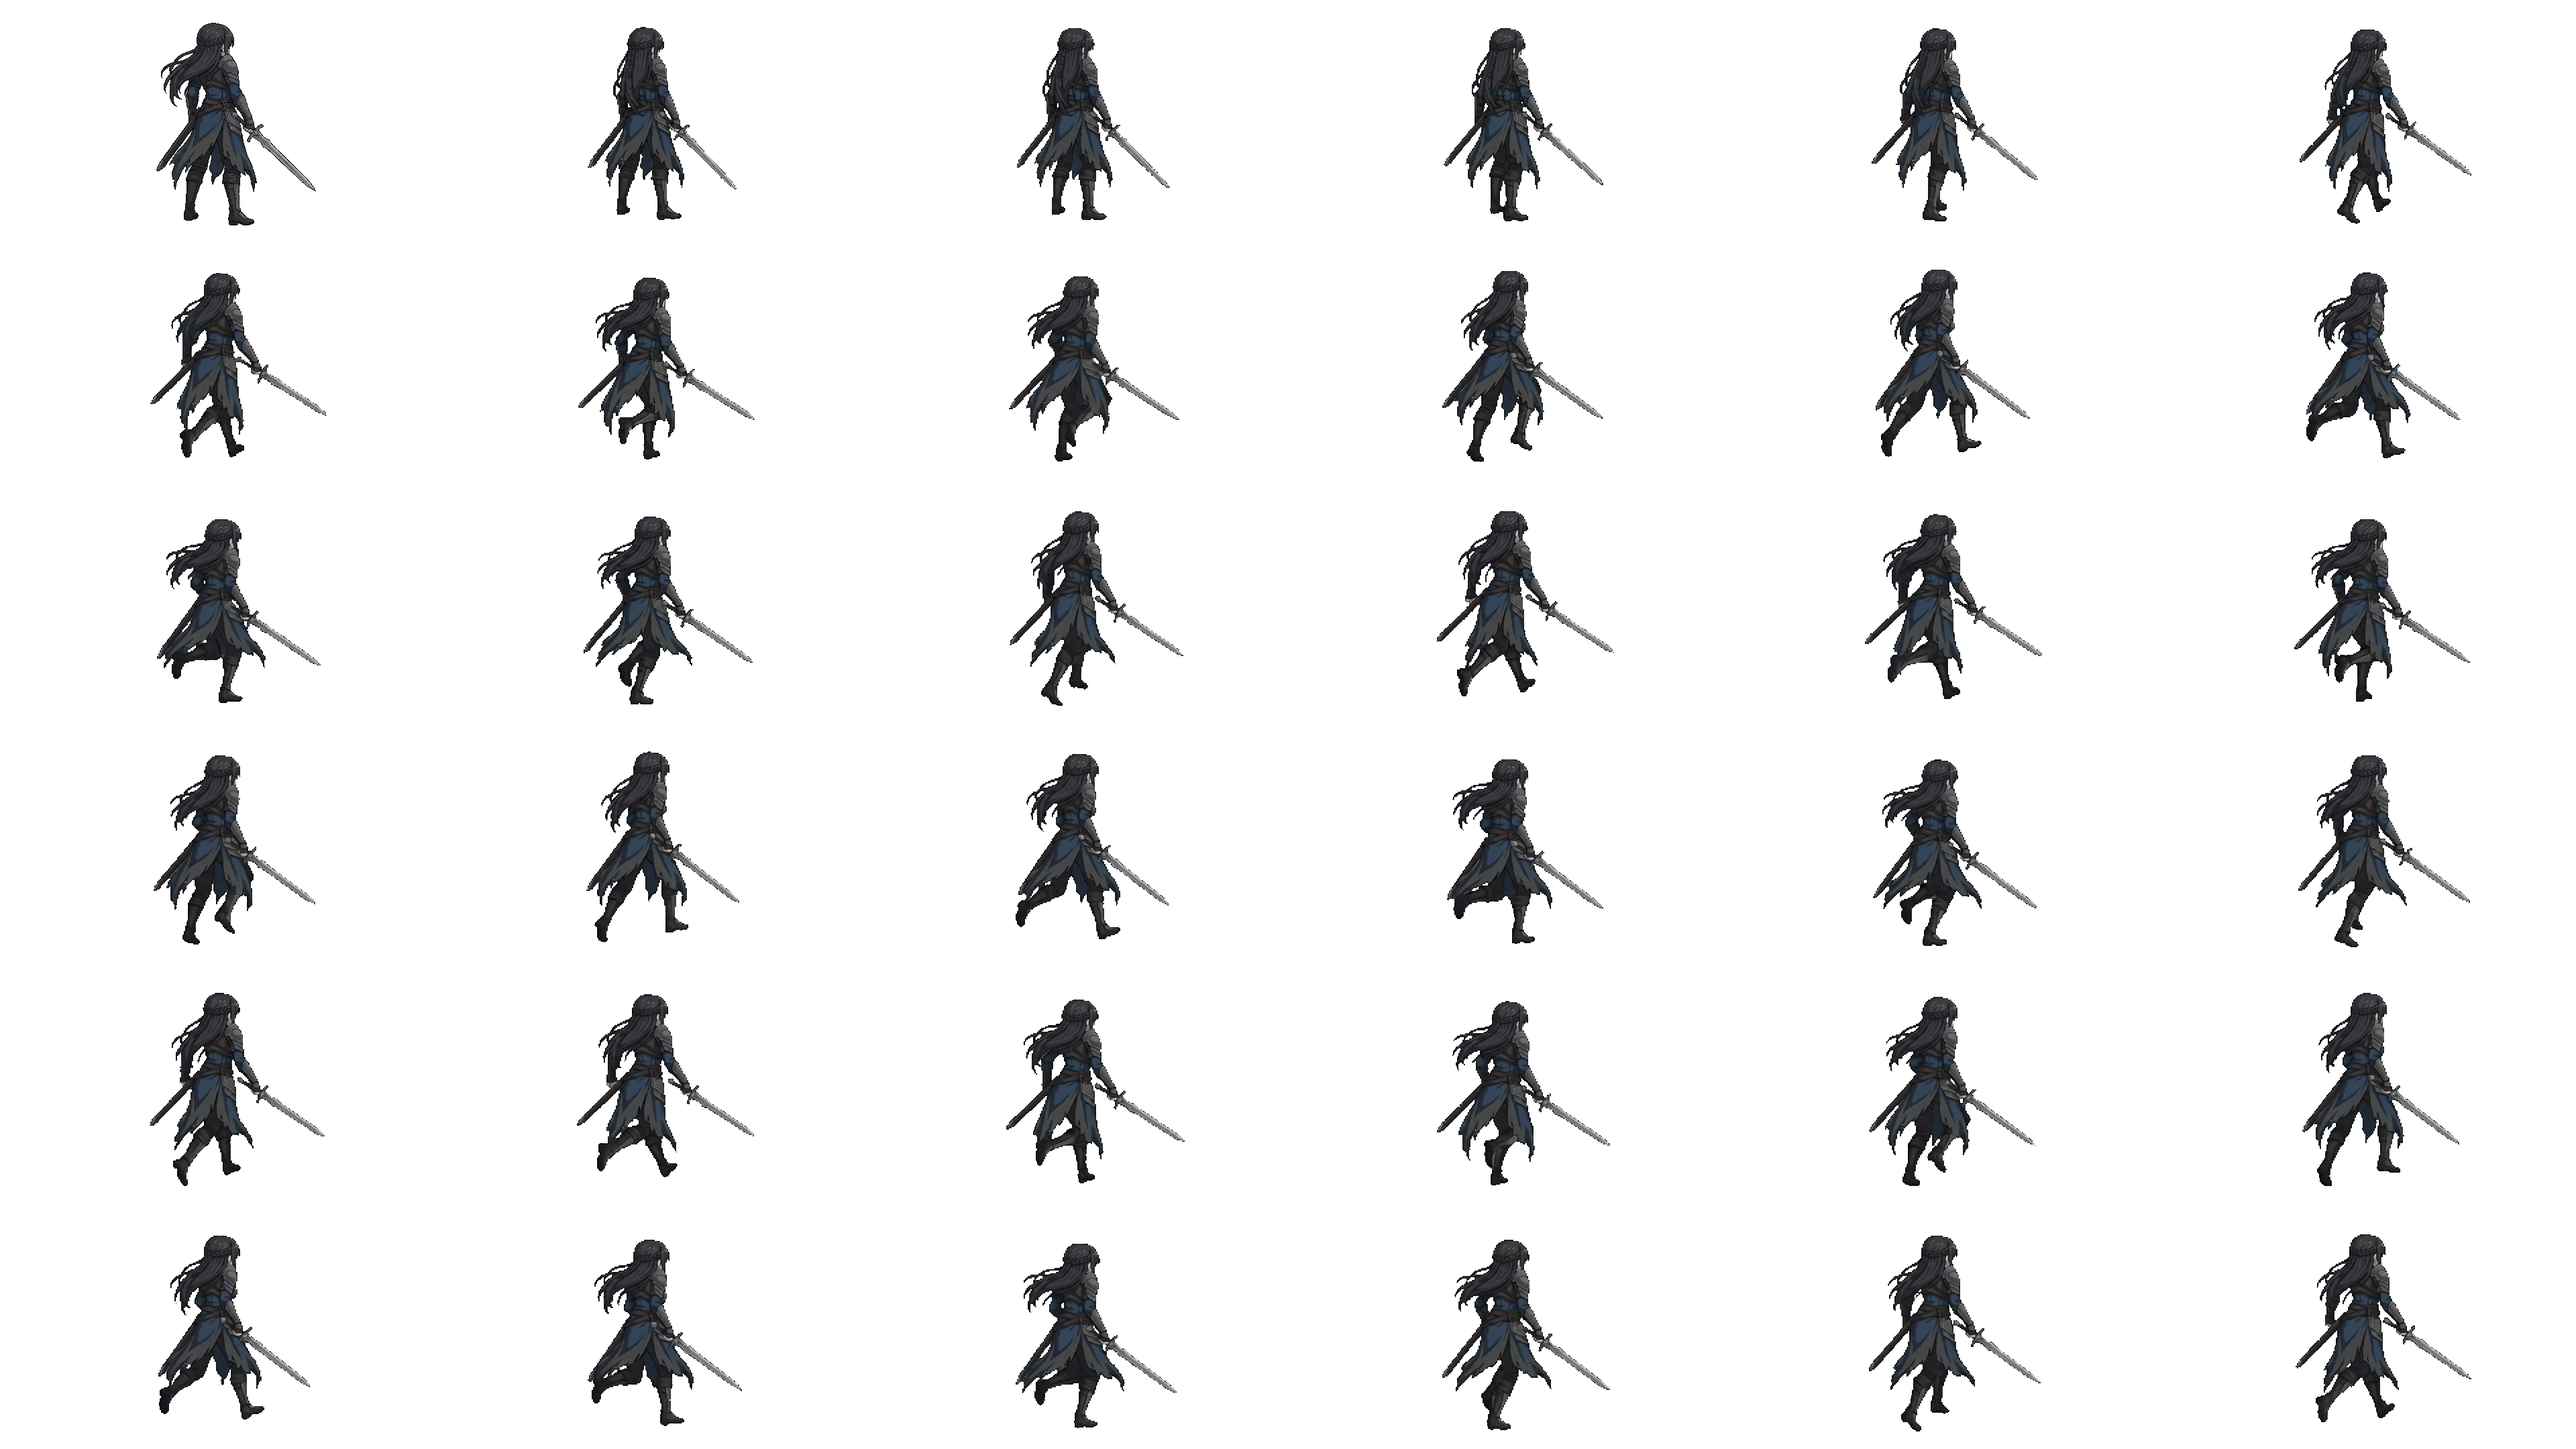
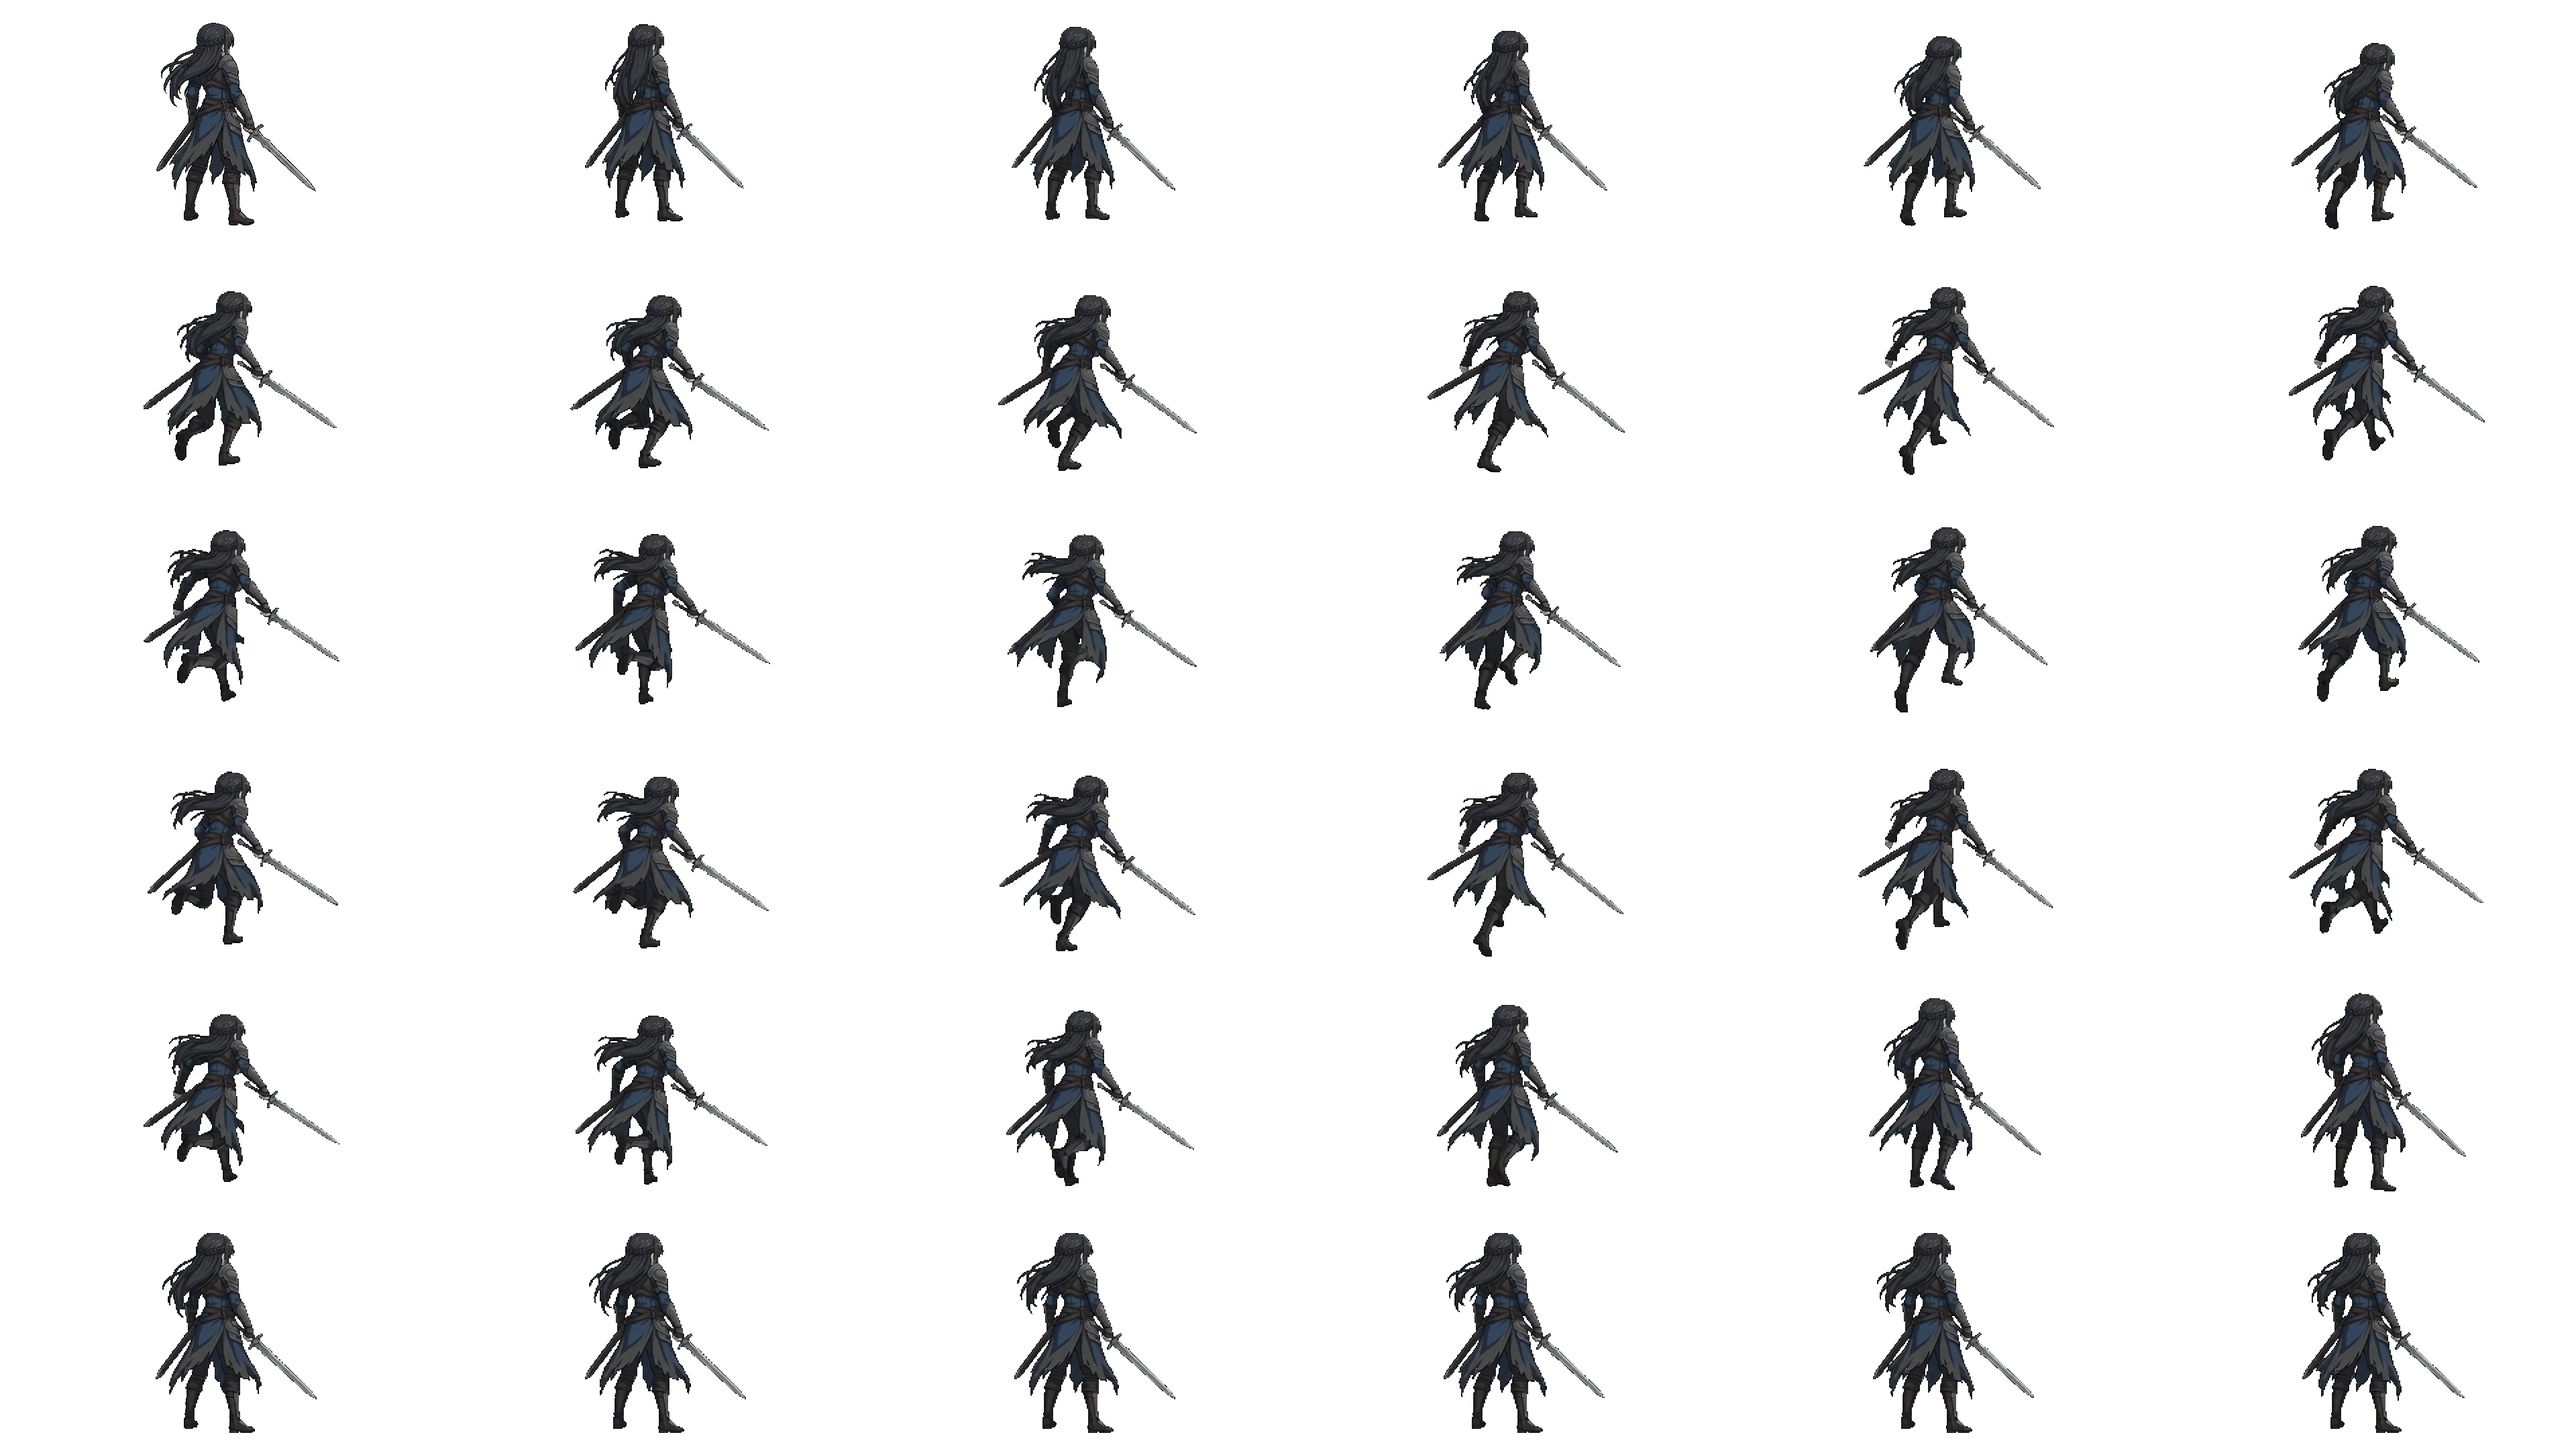
새 run 시트 적용(출발·반복·제동 구간), 공격 후반 동작 느리게

diff --git a/arena_scene.py b/arena_scene.py
@@ -1193,6 +1193,9 @@ class ArenaScene:
         # 실제로 나간 공격 횟수 (그리기 전용). 홀수 번째 공격은 공격 동작을 좌우 반전해
         #   시트 한 장으로 좌우 번갈아 베는 연타처럼 보이게 한다
         self.attack_count = 0
+        self.attack_visual_count = 0  # 지금 그리는 공격 동작이 몇 번째 공격인지
+        self.attack_visual_duration = BASIC_ATTACK_DURATION
+        self.run_skip_intro = False
         self.battle_finished = False
         self.player_lane = "platform_2"
         self.player_logical_x = 310
@@ -1522,19 +1525,50 @@ class ArenaScene:
         view_zoom = self.view_zoom
         camera_x = self.camera_x
 
+    def set_player_animation(self, animation):
+        self.player_animation = animation
+        self.player_anim_time = 0.0
+
     def update_player_animation(self, moved):
-        # 공격 중이면 공격 동작, 실제로 움직였으면 달리기(회피·대시 포함), 아니면 대기.
-        # 좌우 반전은 판정과 같은 facing_direction을 따른다 — 칼이 판정 쪽으로 나간다
+        """그리기 전용 동작 상태: idle / run / brake / attack.
+
+        공격 중이면 attack (공격 시간에 맞춰 늘임, 끝난 뒤 꼬리는 서 있을 때만).
+        실제로 움직였으면 run (회피·대시 포함) — 출발 구간 후 반복.
+        달리다 멈추면 brake (감속 프레임) 후 idle.
+        좌우 반전은 판정과 같은 facing_direction을 따른다 — 칼이 판정 쪽으로 나간다.
+        """
+        moving = abs(moved) > 1e-6
         if self.attack_type is not None:
-            animation = "attack"
-        elif abs(moved) > 1e-6:
-            animation = "run"
-        else:
-            animation = "idle"
-        if animation != self.player_animation:
-            # 동작이 바뀌면 첫 프레임부터 — 달리기 0번은 대기에서 출발하는 자세다
-            self.player_animation = animation
-            self.player_anim_time = 0.0
+            if self.player_animation != "attack" or self.attack_visual_count != self.attack_count:
+                self.attack_visual_count = self.attack_count
+                self.attack_visual_duration = (
+                    BASIC_ATTACK_DURATION
+                    if self.attack_type == "basic"
+                    else HEAVY_ATTACK_DURATION
+                )
+                self.player_animation = "attack"
+            # 공격 중에는 판정 시계(attack_elapsed)에 맞춘다
+            self.player_anim_time = self.attack_elapsed
+            return
+
+        if self.player_animation == "attack":
+            if moving:
+                self.run_skip_intro = False
+                self.set_player_animation("run")
+            elif self.player_attack_frame() is None:
+                self.set_player_animation("idle")
+            return
+
+        if moving:
+            if self.player_animation != "run":
+                # 제동 중에 다시 달리면 출발(일어선 자세) 구간을 건너뛴다
+                self.run_skip_intro = self.player_animation == "brake"
+                self.set_player_animation("run")
+        elif self.player_animation == "run":
+            self.set_player_animation("brake")
+        elif self.player_animation == "brake":
+            if player_sprite.brake_frame(self.player_anim_time) is None:
+                self.set_player_animation("idle")
 
     def update_momentum_fx(self, fixed_delta):
         self.player_anim_time += fixed_delta
@@ -1959,21 +1993,31 @@ class ArenaScene:
         판정 방향(facing_direction)은 그대로다. 짝수 번째 클릭은 기본 동작, 홀수 번째는 반대 동작.
         """
         flipped = self.facing_direction < 0
-        if self.attack_type is not None and self.attack_count % 2 == 1:
+        if self.player_animation == "attack" and self.attack_visual_count % 2 == 1:
             flipped = not flipped
         return flipped
 
     def player_attack_frame(self):
-        """공격 중이면 공격 시트 프레임 (공격 시간에 맞춰 늘임), 아니면 None."""
-        if self.attack_type is None:
-            return None
-        duration = (
-            BASIC_ATTACK_DURATION
-            if self.attack_type == "basic"
-            else HEAVY_ATTACK_DURATION
-        )
+        """공격 동작 프레임 (꼬리 포함). 끝났으면 None."""
         # 판정은 공격 시간의 50%에 들어간다 (update의 attack_duration * 0.5)
-        return player_sprite.attack_frame(self.attack_elapsed / duration, 0.5)
+        return player_sprite.attack_frame(
+            self.player_anim_time, self.attack_visual_duration, 0.5
+        )
+
+    def player_sprite_frame(self):
+        """(시트 이름, 프레임) — 프레임이 None이면 시간 × fps로 돈다 (대기)."""
+        if self.player_animation == "attack":
+            frame = self.player_attack_frame()
+            if frame is not None:
+                return "attack", frame
+            return "idle", None
+        if self.player_animation == "run":
+            return "run", player_sprite.run_frame(self.player_anim_time, self.run_skip_intro)
+        if self.player_animation == "brake":
+            frame = player_sprite.brake_frame(self.player_anim_time)
+            if frame is not None:
+                return "run", frame
+        return "idle", None
 
     def draw_player(self, screen_x, foot_y, scale):
         """대기 스프라이트. 이미지를 못 읽으면 예전 도형 캐릭터로 그린다."""
@@ -1983,15 +2027,16 @@ class ArenaScene:
         # 발밑 그림자는 도형 캐릭터와 같다
         set_draw_color("shadow", 170, 0.7)
         draw_filled_ellipse(screen_x, foot_y + 3 * scale, 24 * scale, 8 * scale)
+        sheet, frame = self.player_sprite_frame()
         player_sprite.draw(
-            self.player_animation,
+            sheet,
             screen_x,
             foot_y,
             PLAYER_SPRITE_HEIGHT * scale,
             self.player_anim_time,
             HEIGHT,
             flip=self.player_sprite_flipped(),
-            frame=self.player_attack_frame(),
+            frame=frame,
             rim_px=1.5,
             rim_alpha=PLAYER_RIM_RGBA[3],
             offset=(DRAW_OFFSET_X, DRAW_OFFSET_Y),

diff --git a/player_sprite.py b/player_sprite.py
@@ -2,7 +2,7 @@
 
 세 시트 모두 3840×2160, 6열 × 6행, 칸 640×360, 배경 투명, 뒷모습(보스를 바라봄).
   player_idle.png  : 35프레임 (마지막 칸 비어 있음)
-  player_run.png   : 36프레임
+  player_run.png   : 36프레임 — 0~8 출발(대기 → 숙인 자세), 9~20 달리기 반복, 21~35 감속 → 대기
   player_attack.png: 36프레임 — 0~6 준비, 7~17 회전 베기(검기), 18~27 거두기, 28~35는 대기와 거의 같다
 같은 좌표계로 그려져 있어 발 기준점을 공유한다 — 발 중심 x ≈ 326, 발바닥 y ≈ 332
 (칸 왼쪽 위 기준), 머리 꼭대기 y ≈ 30 → 캐릭터 키 ≈ 302px. 달리기는 발이 뜨는 프레임이
@@ -27,12 +27,20 @@ SOURCE_FOOT = (326, 332)  # 칸 안 발 중심 (왼쪽 위 기준)
 SOURCE_HEIGHT = 302  # 발바닥 ~ 머리 꼭대기
 DOWNSAMPLE = 2  # GPU로 한 번 줄이는 배율
 
+# 달리기 시트 구간. 반복 9~20은 프레임 윤곽을 비교해 고른 이음매가 가장 매끄러운 구간
+#   (20 → 9 겹침 0.78, 이웃 프레임끼리 평균 ≈ 0.70)
+RUN_INTRO_END = 8  # 0~8: 출발, 한 번만
+RUN_LOOP = (9, 20)  # 반복
+RUN_BRAKE = (27, 35)  # 멈출 때 한 번 재생하고 대기로 (28 이후는 대기 자세와 거의 같다)
+# 36fps: 출발 0.25초, 반복 한 주기(12프레임) 0.33초. 이동 속도(뒷줄 ≈ 420px/s)에 발이 맞는 빠르기
+RUN_FPS = 36
+
 SHEETS = {
     # 대기: 35프레임 / 24fps ≈ 1.46초 한 주기 — 숨 쉬는 속도에 가깝다
     "idle": {"file": "player_idle.png", "frames": 35, "fps": 24},
-    # 달리기: 36프레임 / 45fps = 0.8초 한 주기. 이동 속도(뒷줄 ≈ 420px/s)에서 발이
-    #   바닥에 미끄러져 보이지 않는 빠르기. 30fps(1.2초)는 걷는 것처럼 느렸다
-    "run": {"file": "player_run.png", "frames": 36, "fps": 45},
+    # 달리기: 고정 반복이 아니라 출발·반복·제동 구간으로 나눠 쓴다 (run_frame / brake_frame).
+    #   36프레임을 통째로 돌리면 반복할 때마다 대기 자세로 일어섰다 다시 숙인다
+    "run": {"file": "player_run.png", "frames": 36, "fps": RUN_FPS},
     # 공격: 고정 fps가 아니라 공격 시간에 맞춰 늘이고 줄인다 (attack_frame 참고).
     #   기본 공격 0.25초와 강공격 0.70초가 같은 시트를 쓴다
     "attack": {"file": "player_attack.png", "frames": 36, "fps": 0},
@@ -44,16 +52,46 @@ ATTACK_HIT_FRAME = 10
 ATTACK_END_FRAME = 27
 
 
-def attack_frame(progress, hit_progress=0.5):
-    """공격 진행도 0~1 → 공격 시트 프레임. 판정 시점(hit_progress)에 ATTACK_HIT_FRAME이 온다."""
-    progress = max(0.0, min(progress, 1.0))
-    if progress < hit_progress:
-        frame = ATTACK_HIT_FRAME * progress / hit_progress
-    else:
-        frame = ATTACK_HIT_FRAME + (ATTACK_END_FRAME - ATTACK_HIT_FRAME) * (
-            (progress - hit_progress) / (1.0 - hit_progress)
-        )
+# 판정 뒤(검기 → 칼 거두기) 구간을 공격 시간보다 이만큼 길게 재생한다. 판정 전은 판정 시점에
+#   베기 프레임이 와야 해서 늘일 수 없다. 공격이 끝난 뒤 남는 꼬리는 서 있는 동안만 재생되고,
+#   움직이거나 다시 공격하면 바로 끊긴다 (판정·이동은 그대로).
+#   기본 공격 판정 뒤 0.125초 → 0.21초, 강공격 0.35초 → 0.6초
+ATTACK_RECOVER_SLOWDOWN = 1.7
+
+
+def attack_frame(elapsed, duration, hit_ratio=0.5):
+    """공격 시작 후 경과 시간 → 공격 시트 프레임 (끝나면 None).
+
+    판정 시점(duration × hit_ratio)에 ATTACK_HIT_FRAME이 오고, 그 뒤는
+    ATTACK_RECOVER_SLOWDOWN만큼 느리게 ATTACK_END_FRAME까지 간다.
+    """
+    hit_time = duration * hit_ratio
+    if elapsed < hit_time:
+        return int(ATTACK_HIT_FRAME * max(elapsed, 0.0) / hit_time)
+    recover_time = (duration - hit_time) * ATTACK_RECOVER_SLOWDOWN
+    frame = ATTACK_HIT_FRAME + (ATTACK_END_FRAME - ATTACK_HIT_FRAME) * (
+        (elapsed - hit_time) / recover_time
+    )
+    if frame > ATTACK_END_FRAME + 0.999:
+        return None
     return min(int(frame), ATTACK_END_FRAME)
+
+
+def run_frame(elapsed, skip_intro=False):
+    """달리기 시작 후 경과 시간 → 프레임. 제동 중에 다시 달리면 출발 구간을 건너뛴다."""
+    count = int(elapsed * RUN_FPS)
+    if skip_intro:
+        count += RUN_INTRO_END + 1
+    if count <= RUN_INTRO_END:
+        return count
+    loop_start, loop_end = RUN_LOOP
+    return loop_start + (count - RUN_INTRO_END - 1) % (loop_end - loop_start + 1)
+
+
+def brake_frame(elapsed):
+    """멈춘 뒤 경과 시간 → 제동 프레임 (끝나면 None)."""
+    frame = RUN_BRAKE[0] + int(elapsed * RUN_FPS)
+    return frame if frame <= RUN_BRAKE[1] else None
 
 _sheets = None  # 처음 쓸 때 만든다: {이름: {"sprite", "silhouette", "cell", "foot", "height"}}
 
